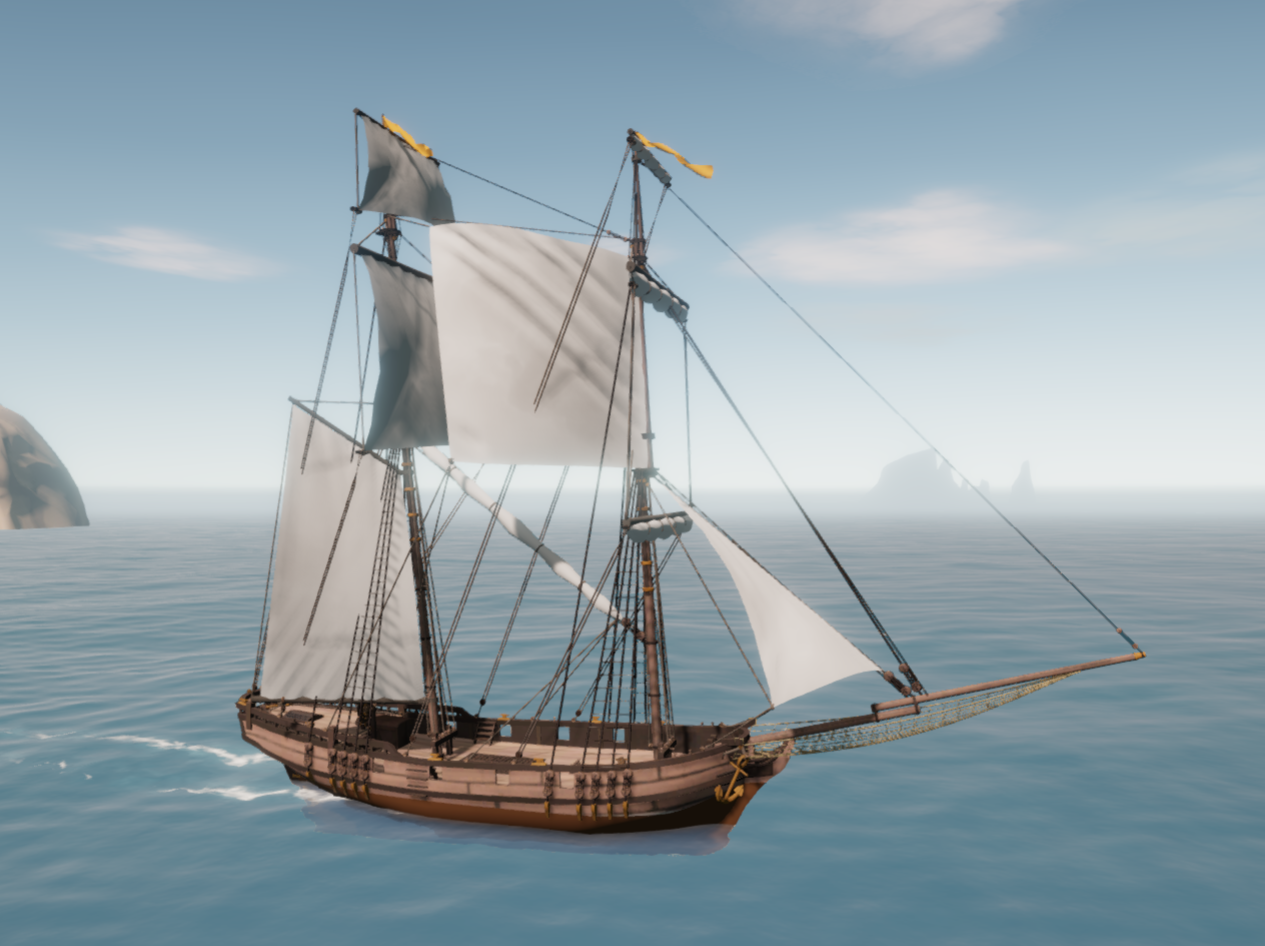
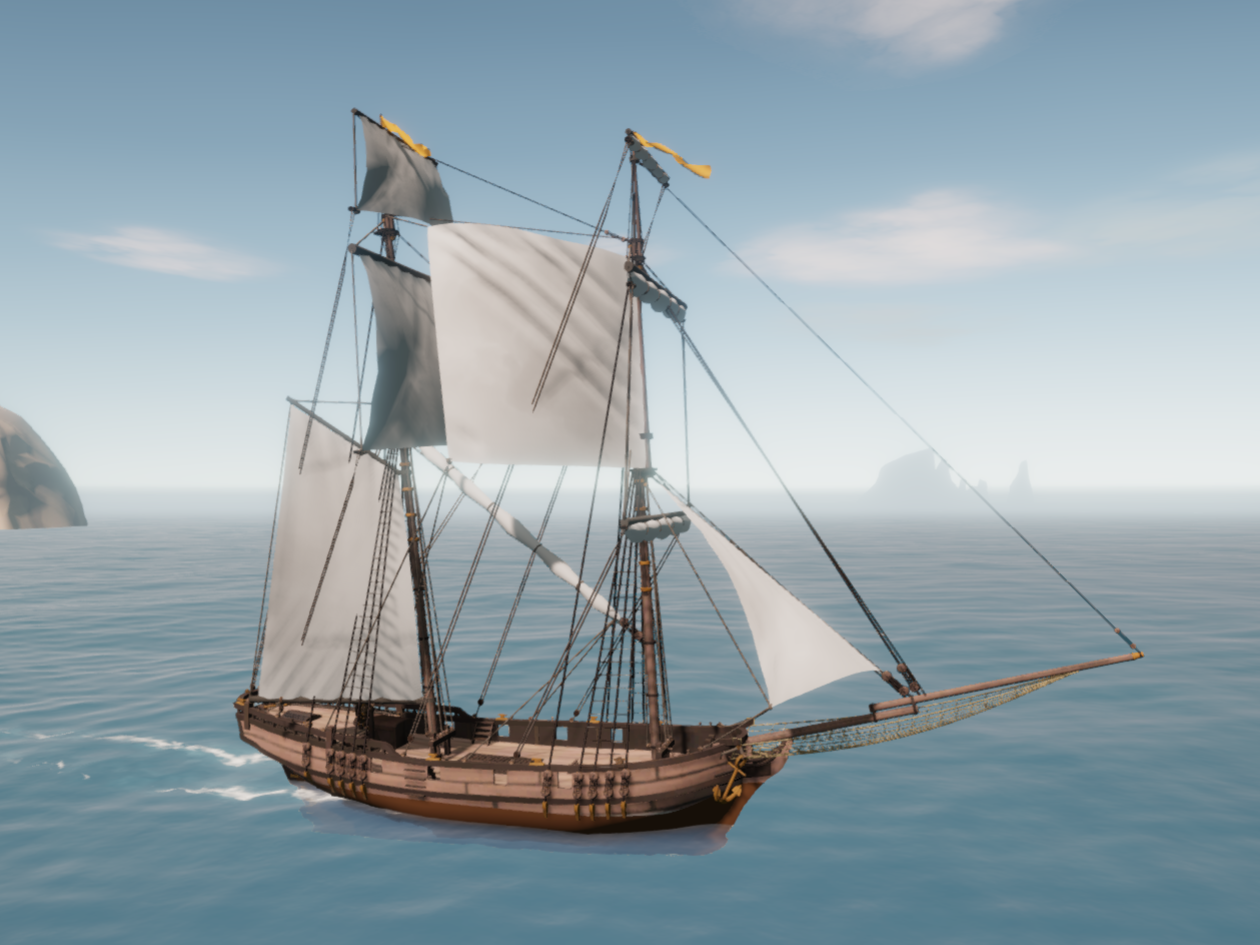
Add spritsail screenshots and standardize gallery aspect ratios
Show spritsails on Baghala, Cog, Junk and Kakam in a clickable README gallery. Crop all ten screenshots to 4:3 while retaining boats, rigging and the SailInfo label so gallery thumbnails align consistently.

diff --git a/README.md b/README.md
@@ -112,6 +112,14 @@ Loose Footed Spritsails are boomless sails supported by a diagonal wooden spar.
 Choose Mk.A or Mk.B for a main sail, or Mk.C for a sail with an added topsail.
 These sails are introduced in 4.0.0.
 
+<p align="center">
+  <a href="images/baghala-spritsail.png"><img src="images/baghala-spritsail.png" width="48%" alt="Baghala fitted with spritsails"></a>
+  <a href="images/cog-spritsail.png"><img src="images/cog-spritsail.png" width="48%" alt="Cog fitted with spritsails"></a>
+  <br>
+  <a href="images/junk-spritsail.png"><img src="images/junk-spritsail.png" width="48%" alt="Junk fitted with spritsails"></a>
+  <a href="images/kakam-spritsail.png"><img src="images/kakam-spritsail.png" width="48%" alt="Kakam fitted with spritsails"></a>
+</p>
+
 ### Mast support
 
 Loose Footed Spritsails can be selected on any physical mast, including on
